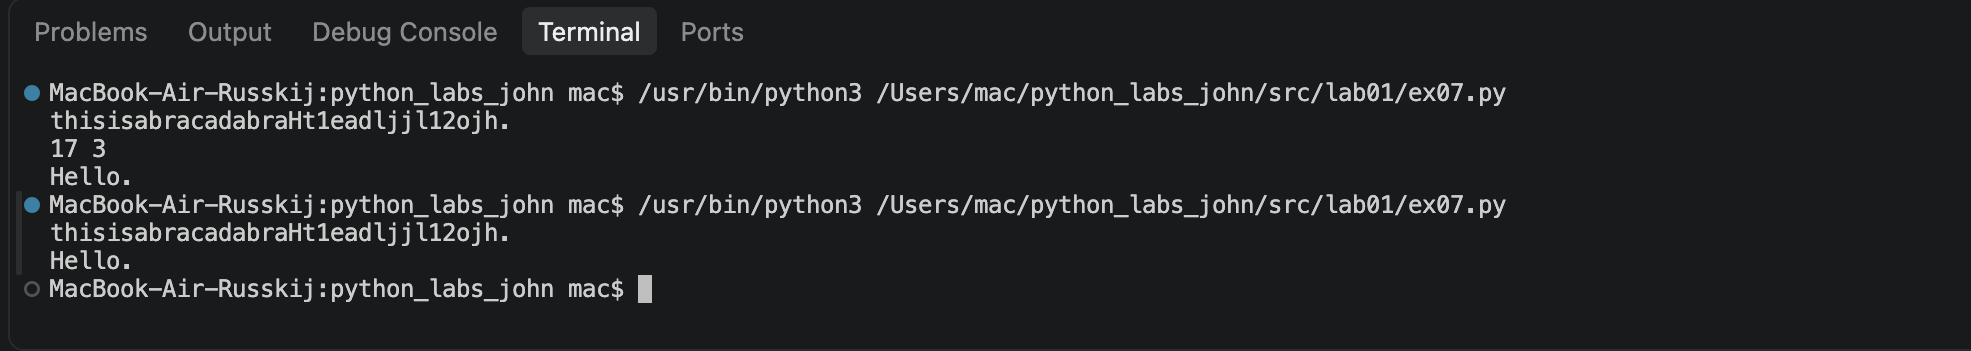
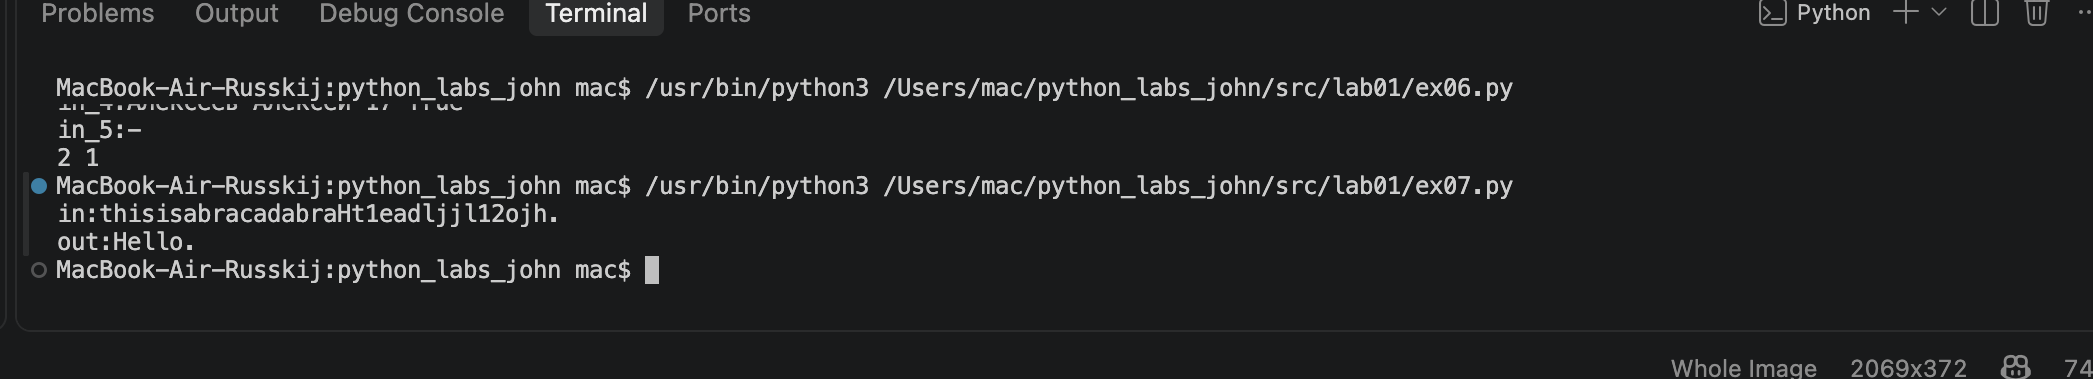
src

diff --git a/src/lab01/ex06.py b/src/lab01/ex06.py
@@ -1,15 +1,17 @@
+b = int(input('in_1:'))
 h = []
+s = 2
 while True:
-    a = input(), int(input()), input(bool)
-    if a[0] == '' and a[1] == 0:
+    a = input('in_' + str(s) + ':').split()
+    s += 1
+    if '-' in a:
         break
     h.append(a)
 c = 0
 k = 0
 for i in h:
-    if i[2] == 'True':
+    if i[3] == 'True':
         c += 1
     else:
         k += 1
 print(c,k)
-print(h)

diff --git a/src/lab01/ex07.py b/src/lab01/ex07.py
@@ -1,4 +1,4 @@
-s = input()
+s = input("in:")
 for i in range(0,len(s)):
     if 65 <= ord(s[i]) <= 90 or 1040 <= ord(s[i]) <= 1071:
         c = i
@@ -9,4 +9,4 @@ h = ''
 while c + 1 <= len(s):
     h += s[c]
     c += e
-print(h)
+print("out:" + h)
